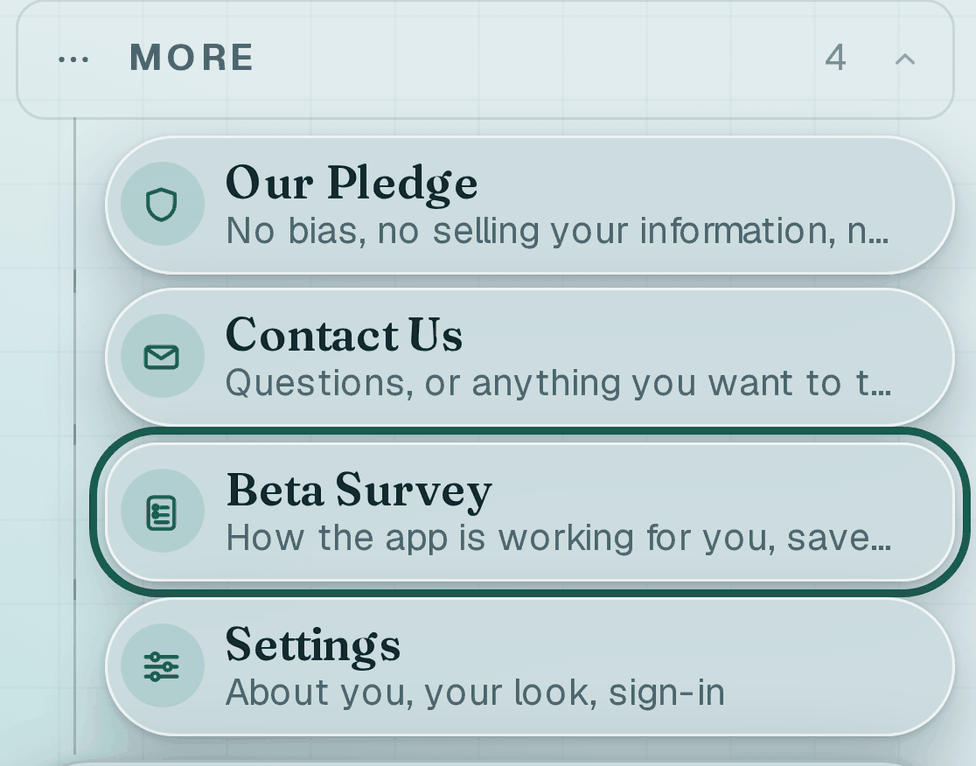
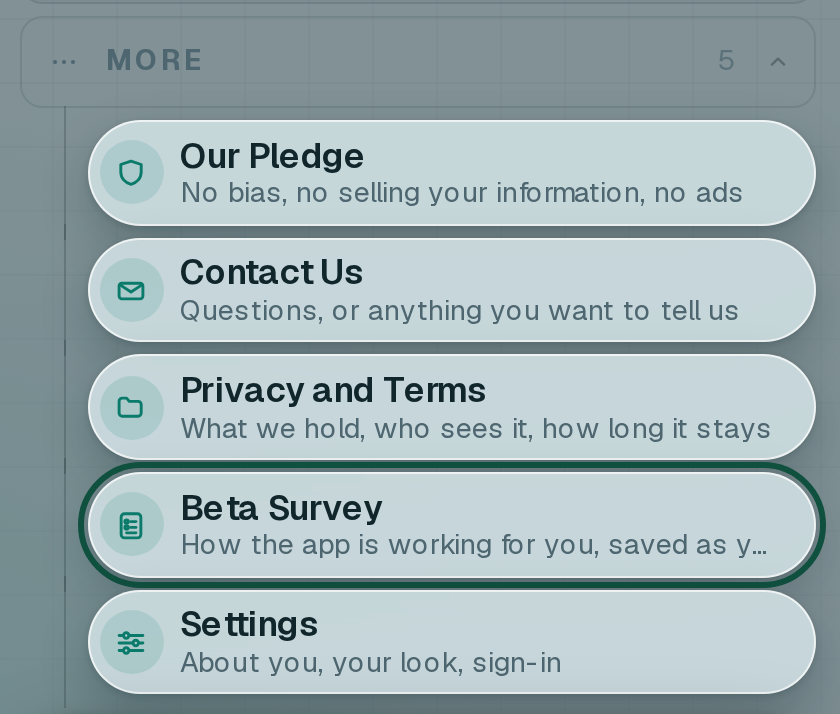
Reshoot the menu picture in the invitation
The picture in the beta invitation was taken before the display serif came out of the app, so every row in it was set in a face the app no longer loads: a tester opening that mail saw one menu in the picture and a different one on screen. It was also short a row. Privacy and Terms went into the More drawer after the shot was taken, which put the ring one row away from where it now belongs.

Retaken from the running app with the survey row ringed, so it is the menu as it stands: five rows, in the sans, on the daybreak look the email itself wears. It is a little narrower and shorter than the old one, and the width and height on the image tag moved with it rather than being left to scale.

diff --git a/lib/email/betaInvite.js b/lib/email/betaInvite.js
@@ -214,7 +214,7 @@ ${noteBlock}
 <table role="presentation" width="100%" cellpadding="0" cellspacing="0" border="0" style="margin:12px 0 0;">
 <tr>
 <td align="center" style="background:${SAND}; border:1px solid ${SAND_DEEP}; border-radius:12px; padding:10px;">
-<img src="${escapeHtml(siteUrl)}/beta-survey-menu.png" width="466" height="366" alt="The menu, with the More drawer open and the row named Beta Survey ringed" style="display:block; width:100%; max-width:466px; height:auto; border:0; outline:none; text-decoration:none; border-radius:8px;">
+<img src="${escapeHtml(siteUrl)}/beta-survey-menu.png" width="420" height="357" alt="The menu, with the More drawer open and the row named Beta Survey ringed" style="display:block; width:100%; max-width:420px; height:auto; border:0; outline:none; text-decoration:none; border-radius:8px;">
 </td>
 </tr>
 </table>
